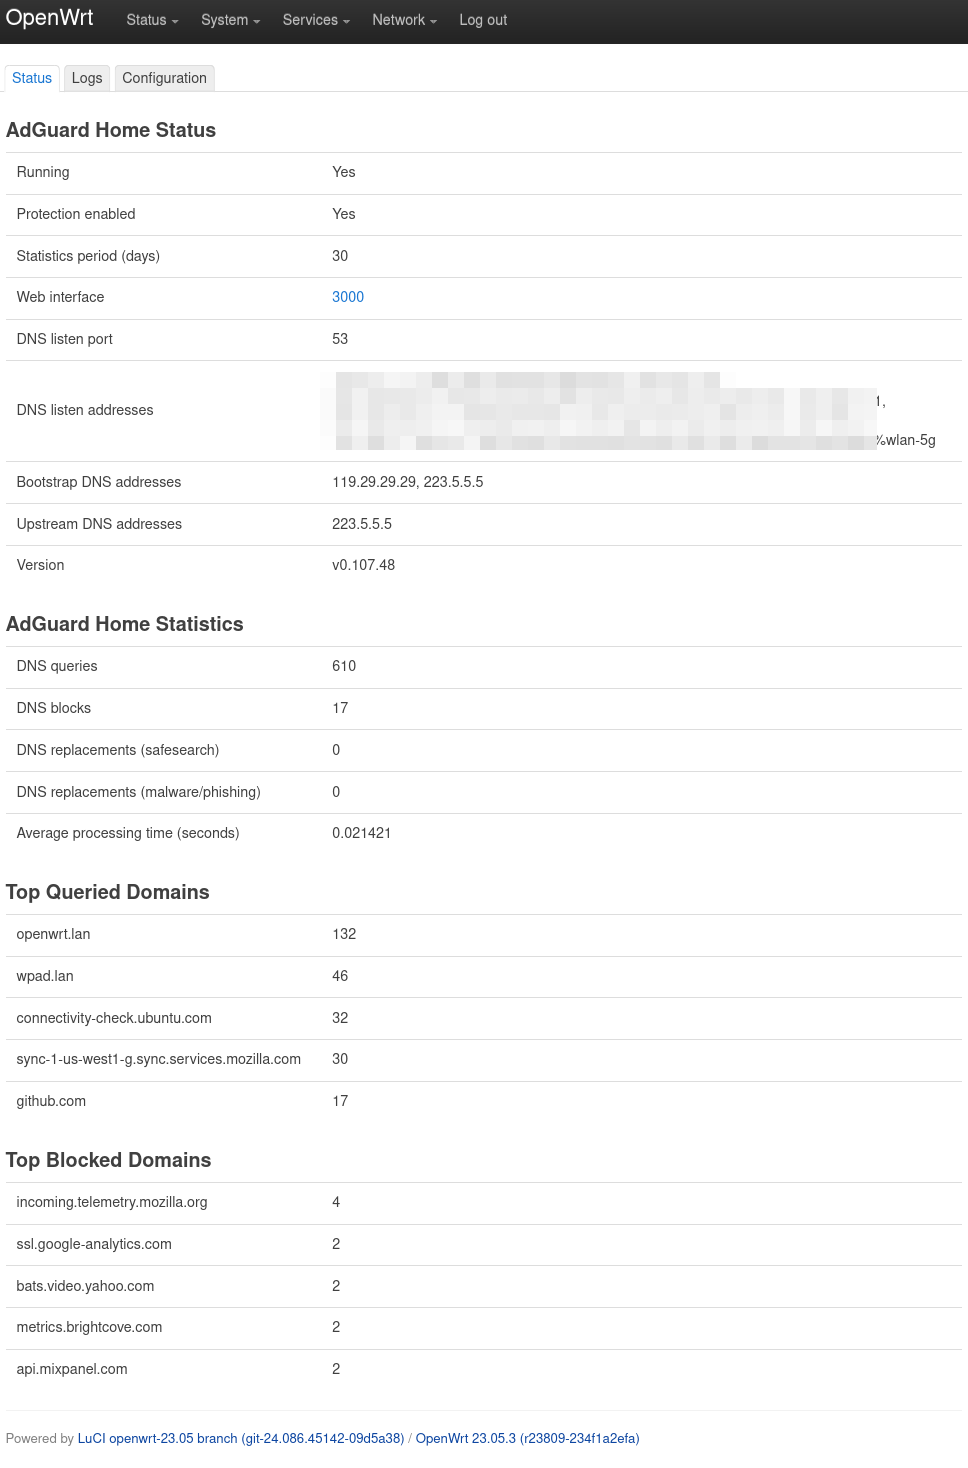
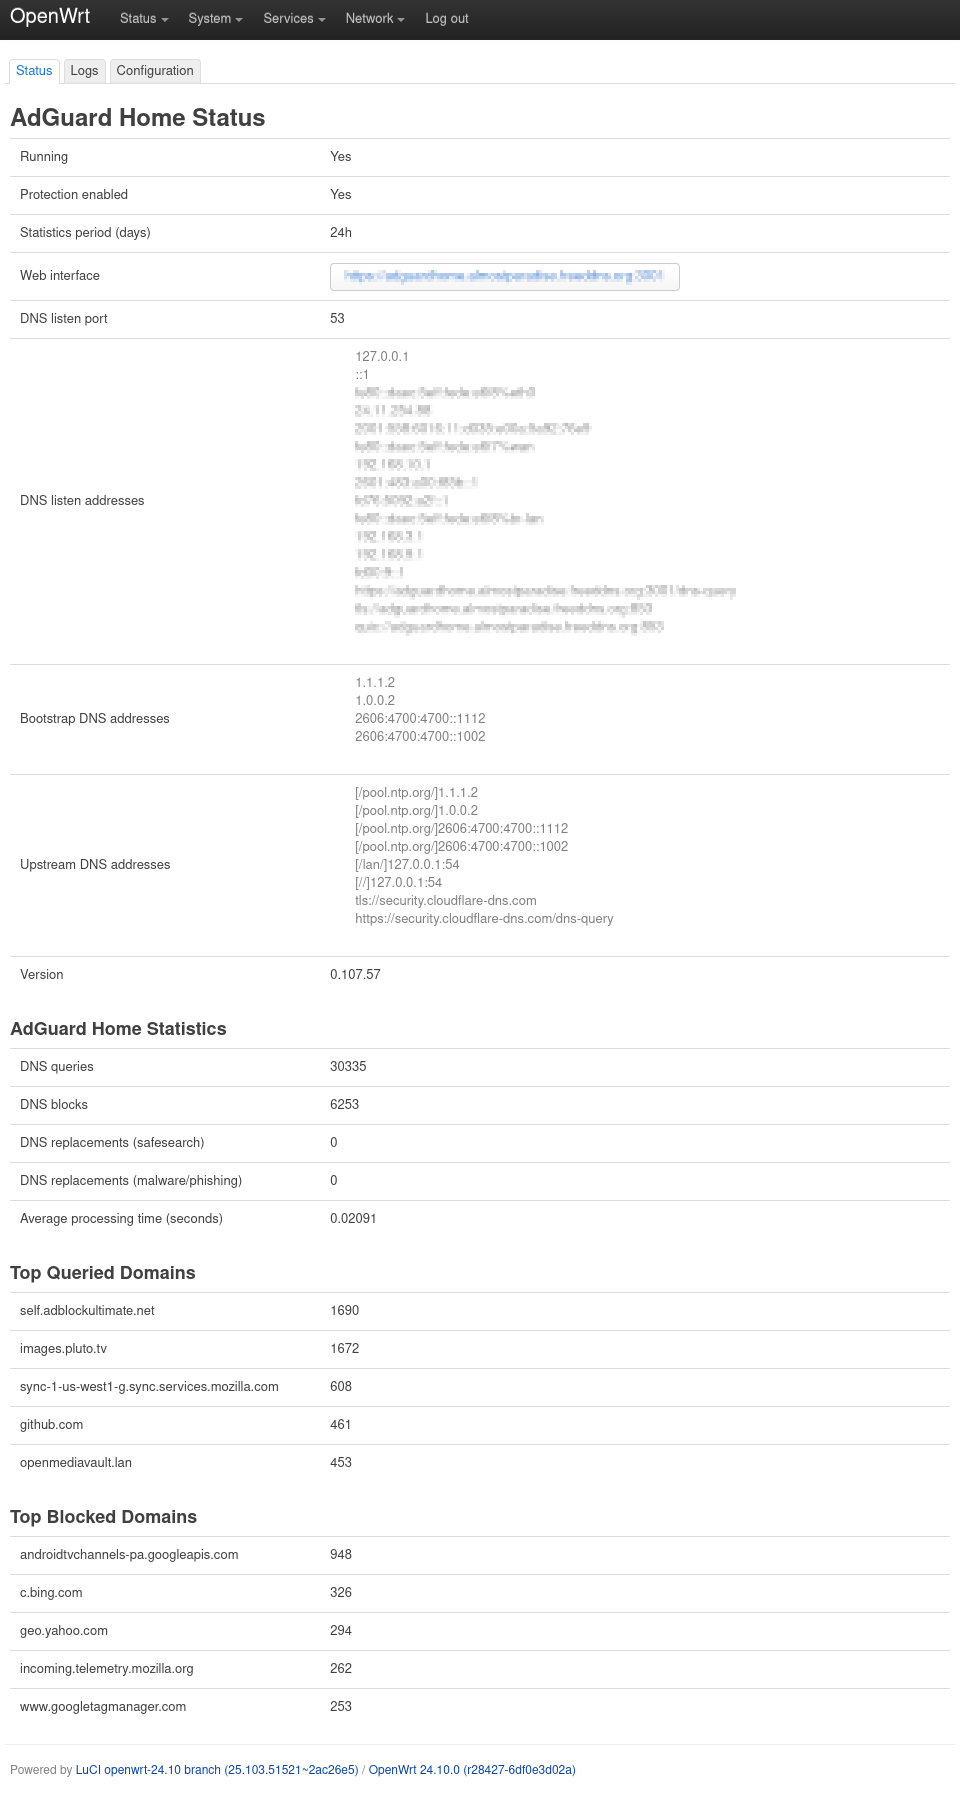
Multiple Fixes

Changed region(s): [[0.0, 0.2759, 0.5938, 1.0], [0.3438, 0.092, 0.9688, 0.8277], [0.0, 0.0, 1.0, 0.2452]]

diff --git a/htdocs/status.js b/htdocs/status.js
@@ -19,6 +19,13 @@ return view.extend({
 	generic_failure: function(message) {
 		return E('div', {'class': 'error'}, [_('RPC call failure: '), message])
 	},
+	render_list: function ( agh_list ) {
+		var table = E('ul', {});
+		for (var i = 0; i < agh_list.length; i++) {
+			table.appendChild(E('li', {}, agh_list[i]));
+		}
+		return table;
+	},
 	render_status_table: function (status, agh_config) {
 		if (status.error) {
 			return this.generic_failure(status.error)
@@ -27,14 +34,14 @@ return view.extend({
 		// declare the fields and use a loop to build the tabular status view.
 		// Written out as key/value pairs, but it's just an iterable of elements.
 		const weburl = agh_config.web_url;
-		const listen_addresses = L.isObject(status.dns_addresses) ? status.dns_addresses.join(', ') : _('Not found');
-		const bootstrap_dns = L.isObject(agh_config.dns_bootstrap_dns) ? agh_config.dns_bootstrap_dns.join(', ') : _('Not found');
-		const upstream_dns = L.isObject(agh_config.dns_upstream_dns) ? agh_config.dns_upstream_dns.join(', ') : _('Not found');
+		const listen_addresses = L.isObject(status.dns_addresses) ? this.render_list(status.dns_addresses) : _('Not found');
+		const bootstrap_dns = L.isObject(agh_config.dns_bootstrap_dns) ? this.render_list(agh_config.dns_bootstrap_dns) : _('Not found');
+		const upstream_dns = L.isObject(agh_config.dns_upstream_dns) ? this.render_list(agh_config.dns_upstream_dns) : _('Not found');
 		const fields = [
 			_('Running'), status.running ? _('Yes') : _('No'),
 			_('Protection enabled'), status.protection_enabled ? _('Yes') : _('No'),
 			_('Statistics period (days)'), agh_config.statistics_interval,
-			_('Web interface'), E('a', { 'href': weburl, 'target': '_blank' }, weburl),
+			_('Web interface'), E('button', { 'class': "cbi-button cbi-button-button" }, E('a', { 'href': weburl, 'target': '_blank' }, weburl)),
 			_('DNS listen port'), status.dns_port,
 			_('DNS listen addresses'), listen_addresses,
 			_('Bootstrap DNS addresses'), bootstrap_dns,
@@ -45,7 +52,7 @@ return view.extend({
 		var table = E('table', { 'class': 'table', 'id': 'status' });
 		for (var i = 0; i < fields.length; i += 2) {
 			table.appendChild(E('tr', { 'class': 'tr' }, [
-				E('td', { 'class': 'td left', 'width': '33%' }, [fields[i]]),
+				E('td', { 'class': 'td left', 'width': '33%', 'vertical-align': 'text-top' }, [fields[i]]),
 				E('td', { 'class': 'td left' }, [(fields[i + 1] != null) ? fields[i + 1] : _('Not found')])
 			]));
 		}
@@ -76,7 +83,7 @@ return view.extend({
 	},
 	render_top_table: function(table_id, objects) {
 		var table = E('table', { 'class': 'table', 'id': table_id });
-		for (i = 0; i < objects.length; i++) {
+		for (var i = 0; i < objects.length; i++) {
 			table.appendChild(
 				E('tr', { 'class': 'tr' }, [
 					E('td', { 'class': 'td left', 'width': '33%' }, Object.keys(objects[i])[0]),

diff --git a/README.md b/README.md
@@ -52,3 +52,4 @@ Dependencies are declared in the Makefile, but are
 - v2.0.1 - Added forgotten dependency, plus minor fix in rpcd/luci.adguardhome
 - v2.0.2 - Fixed issue in rpcd/luci.adguardhome so it works for older versions of AdGuardHome binary
 - v2.1 - Added ability to change AdGuardHome password from LuCI app
+
